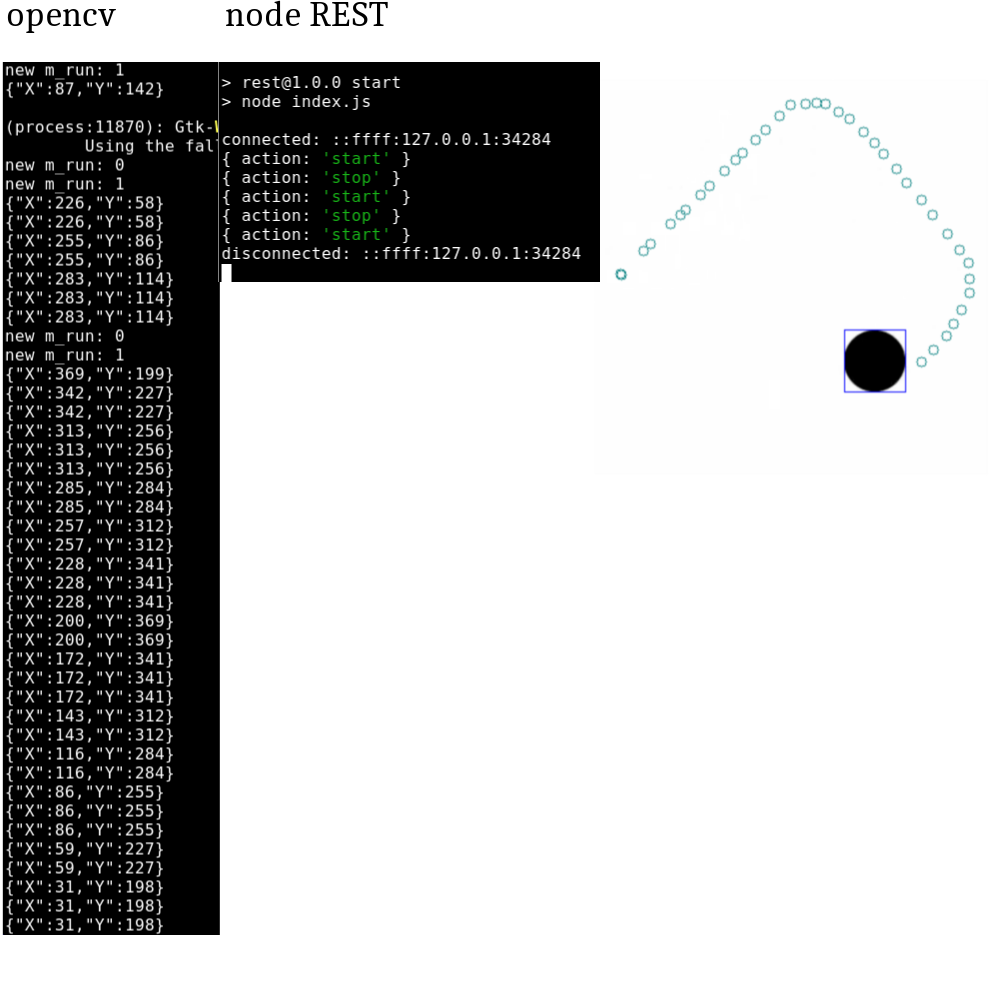
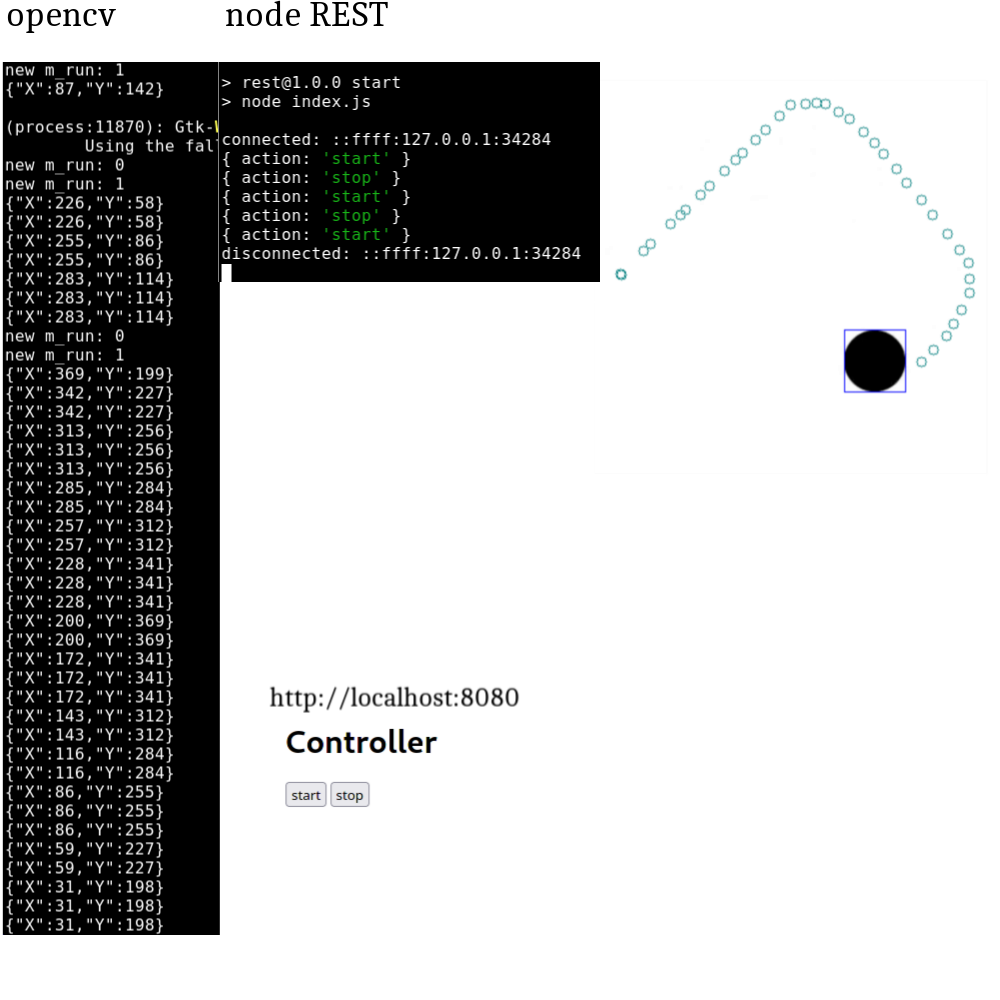
+frontend

Changed region(s): [[0.248, 0.682, 0.527, 0.806]]

diff --git a/5/http/html/index.html b/5/http/html/index.html
@@ -1,0 +1,25 @@
+<!DOCTYPE html>
+<html>
+    <script>
+        const sendAction = (action) => {
+            const data = {
+                method: 'POST',
+                headers: {
+                    'Content-Type': 'application/json'
+                },
+                body: JSON.stringify({ action: action })
+            };
+            
+            fetch('/', data).then(res => {
+                console.log(JSON.stringify(data));    // sent successfully
+            });
+        }
+    </script>
+    <body>
+
+        <h1>Controller</h1>
+        <button onclick="sendAction('start')">start</button>
+        <button onclick="sendAction('stop')">stop</button>
+
+    </body>
+</html>

diff --git a/5/http/index.js b/5/http/index.js
@@ -22,6 +22,7 @@ const PORT = process.env.PORT || 8080;
 
 app.use(express.json());
 
+// backend
 app.post('/', (req, res) => {
     try {
         console.log(req.body);
@@ -38,6 +39,11 @@ app.post('/', (req, res) => {
     } catch (error) {
         console.log(`error: ${error}`);
     }
+});
+// frontend
+app.get('/', (req, res) => {
+    res.statusCode = 200;
+    res.sendFile('html/index.html', {root: __dirname });
 });
 
 app.listen(PORT);

diff --git a/5/README.md b/5/README.md
@@ -27,7 +27,9 @@ Shell 5 (REST client):
 curl --header "Content-Type: application/json" --request POST --data '{"action":"start"}' http://localhost:8080
 curl --header "Content-Type: application/json" --request POST --data '{"action":"stop"}' http://localhost:8080
 ```
+or
+http://localhost:8080 in browser
+![Webpage](webpage.png)
 ![Result](result.png)
-
 ##### P.S.
 IPC между нодой (REST) и opencv реализовано через TCP сокет. Реализовал бы через pipe, если бы узнал о том, что нода его поддерживает, раньше.
